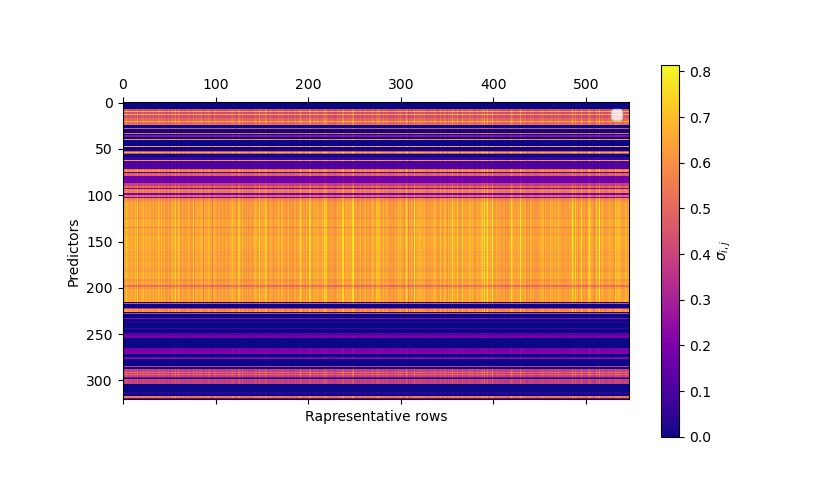
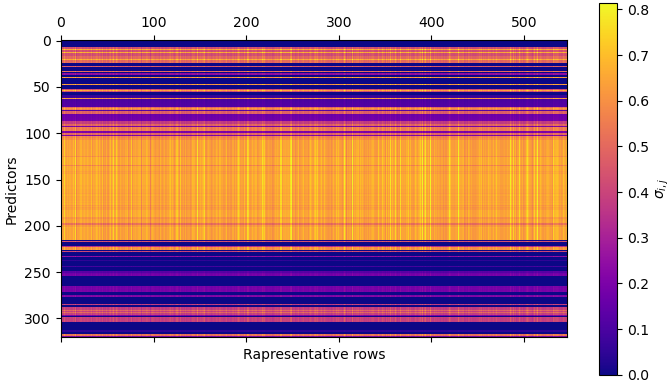
final prints

diff --git a/perso/leoteste.py b/perso/leoteste.py
@@ -30,8 +30,6 @@ plt.matshow(dual_ratios[::600,:].T,cmap="plasma")
 plt.xlabel("Rapresentative rows")
 plt.ylabel("Predictors")
 plt.colorbar(label=r"$\sigma_{i,j}$")
-plt.legend()
-plt.tight_layout()
 plt.show()
 
 
